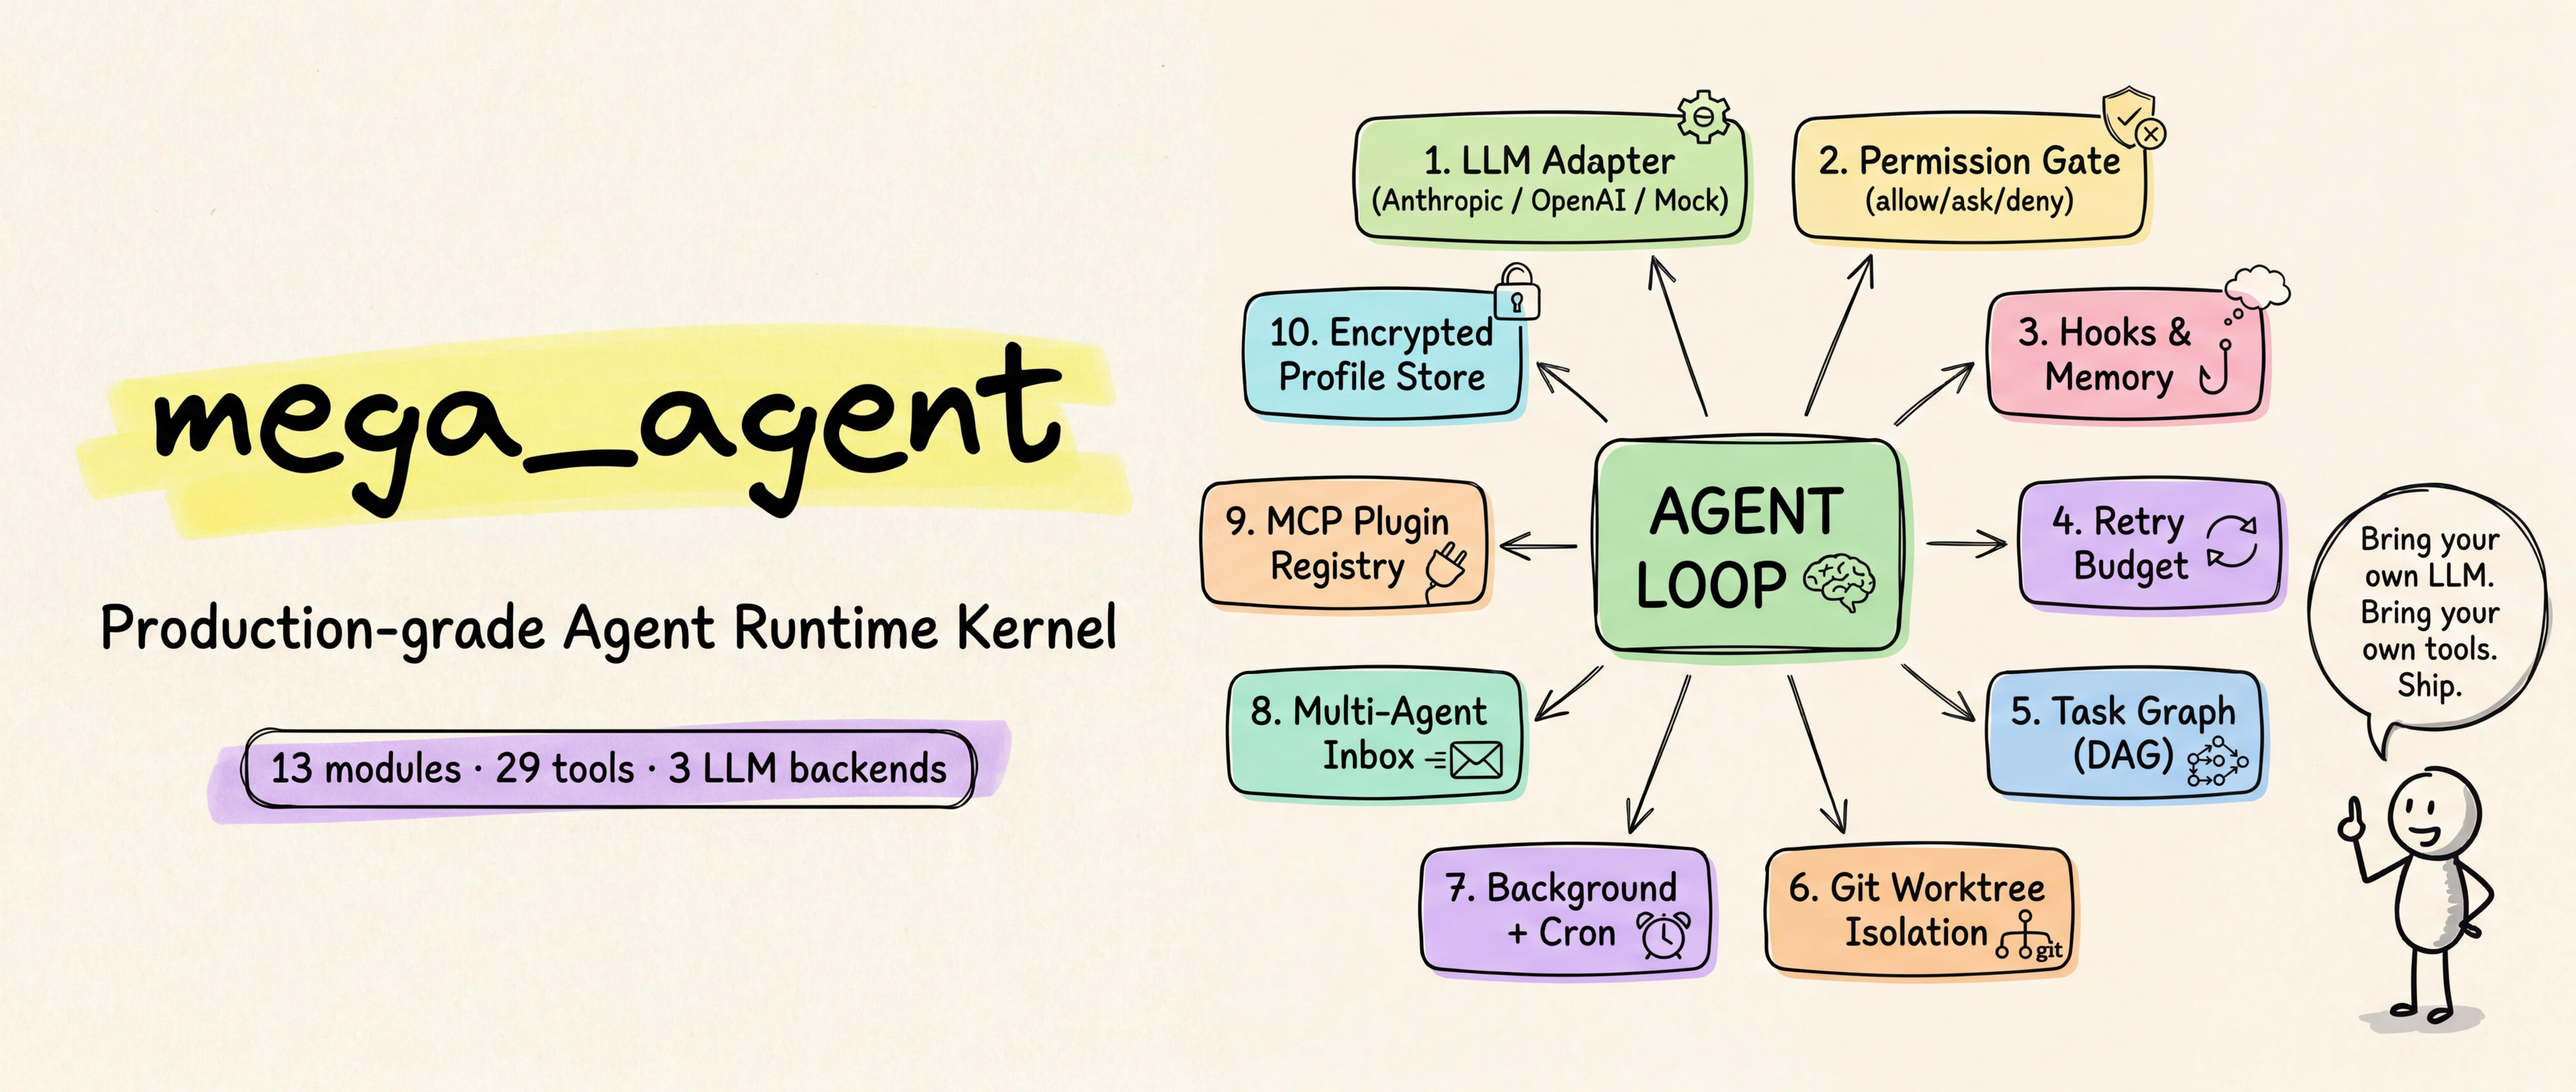
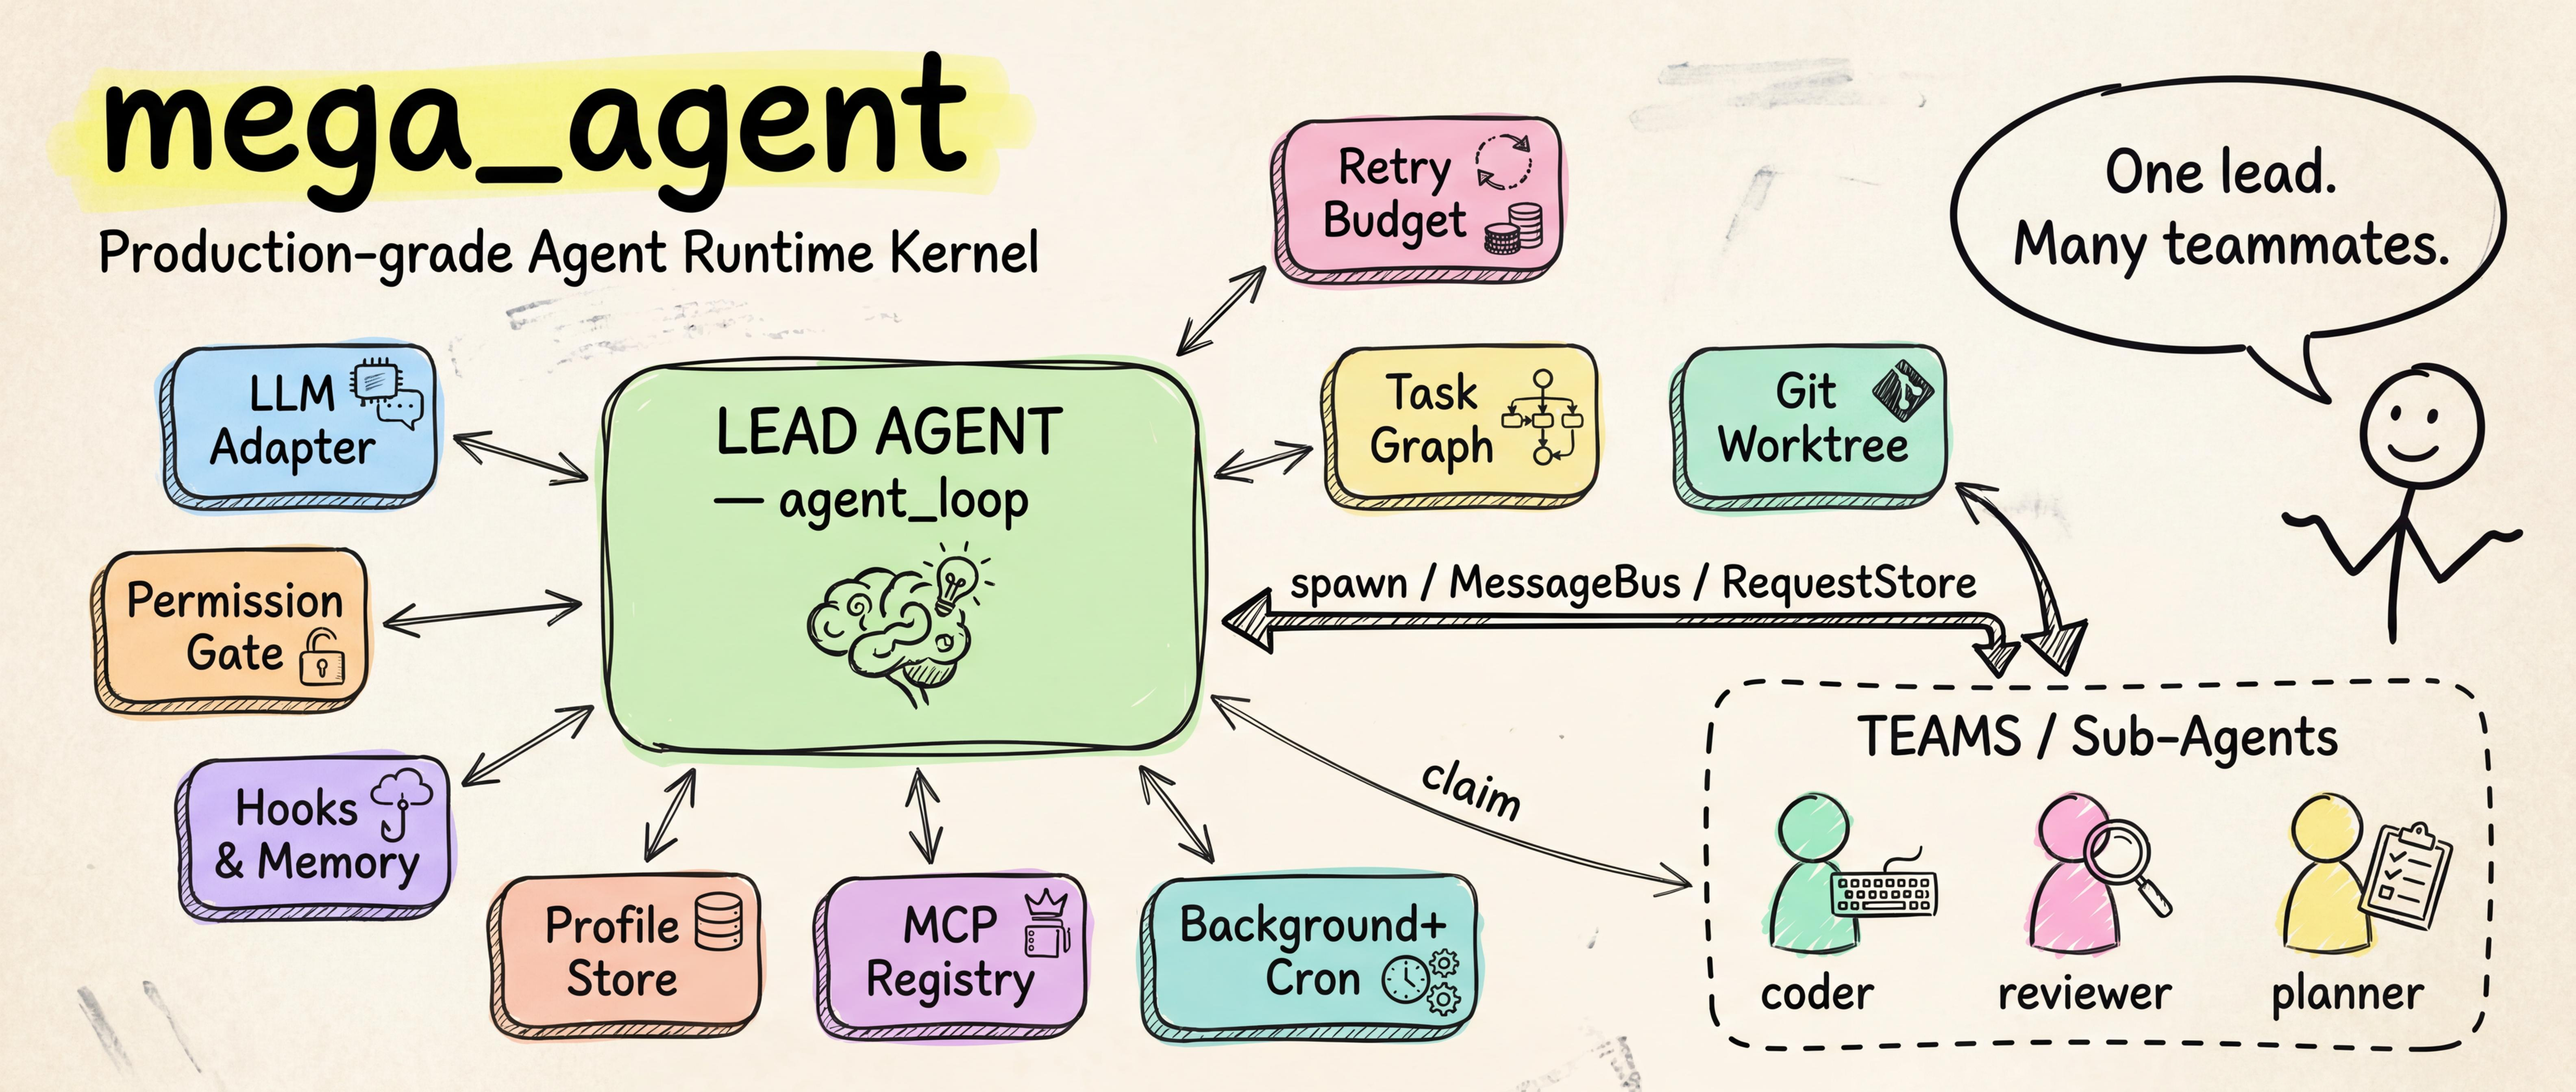
docs: surface Teams / Sub-Agents in architecture
- Regenerate hand-drawn poster with explicit TEAMS/Sub-Agents cluster
  (coder/reviewer/planner) and labeled spawn/MessageBus/RequestStore
  links to the lead agent
- Mermaid flowchart: split L6 Teams into its own subgraph showing
  TeammateManager, MessageBus, RequestStore and three sample
  sub-agents with bidirectional message/protocol/claim arrows;
  add inbox -> drain injection back into the loop
- New 'Multi-agent / 子 Agent 协作' section covering tools,
  message types, typical pattern, and RequestStore protocol

diff --git a/README.md b/README.md
@@ -67,9 +67,19 @@ flowchart TB
       T[L4 Task Graph]
       W[L4 Worktree]
       B[L5 Background + Cron]
-      TM[L6 Teams + Inbox]
       MC[L7 MCP Registry]
       PR[L7 Profile Store<br/>Fernet/PBKDF2]
+    end
+
+    subgraph Teams["L6 Teams / 子 Agent 协作层"]
+      TM[TeammateManager<br/>spawn / shutdown]
+      MB[MessageBus<br/>JSONL inbox]
+      RS[RequestStore<br/>approve / result]
+      subgraph Subs["Sub-Agents / 子 Agent"]
+        SA1[coder]
+        SA2[reviewer]
+        SA3[planner]
+      end
     end
 
     subgraph Tools["Native Tools 29x"]
@@ -79,7 +89,7 @@ flowchart TB
     subgraph External["External / 外部"]
       LLMSVC[(LLM provider)]
       MCPSVR[(MCP servers)]
-      FS[(Filesystem<br/>.tasks/ .worktrees/<br/>.team/ etc.)]
+      FS[(Filesystem<br/>.tasks/ .worktrees/<br/>.team/ .requests/ etc.)]
     end
 
     U -->|prompt| K
@@ -96,7 +106,12 @@ flowchart TB
     MC --> MCPSVR
     EX --> R
     TOOLS --> T & W & B & TM
-    T & W & B & TM --> FS
+    TM <-->|spawn / shutdown| Subs
+    Subs <-->|messages| MB
+    Subs <-->|protocol| RS
+    Subs -.->|autonomous claim| T
+    MB -->|inject inbox| DR
+    T & W & B & TM & MB & RS --> FS
     PR -.->|chooses backend| F
     EX -->|tool_result| K
 ```
@@ -356,6 +371,55 @@ you> worktree_closeout feat-a action=remove complete_task=true
 **EN —** Each worktree is a real `git worktree add`, on its own branch (`wt/<name>`). Multiple subagents can edit files in isolation; `worktree_closeout` either keeps or removes the branch and updates the bound task.
 
 **中文 —** 每个 worktree 都是真实的 `git worktree add`,独立分支(`wt/<name>`)。多个子 Agent 可以在文件层面互不干扰;`worktree_closeout` 可选保留或删除分支,并同步更新绑定任务。
+
+---
+
+## 👥 Multi-agent / 子 Agent 协作
+
+**EN —** Built-in lead-and-teammates pattern. The lead (your `agent_loop` caller) spawns sub-agents on background threads; each has its own role, JSONL inbox, and optional autonomous task-claiming behaviour.
+
+**中文 —** 内置主-从多 Agent 协作模式。主 Agent(你的 `agent_loop` 调用方)在后台线程拉起子 Agent;每个子 Agent 有自己的角色、JSONL 收件箱,可选自主任务认领能力。
+
+### Tools / 工具
+
+| Tool | EN | 中文 |
+|---|---|---|
+| `spawn` | Start a teammate by name + role (+ `autonomous` flag) | 按 name + role 启动一个子 Agent(可选 `autonomous`) |
+| `list_teammates` | List all teammates and their status | 列出所有子 Agent 及其状态 |
+| `send_message` | Send a typed message to a teammate's inbox | 投递一条带类型的消息到指定收件箱 |
+| `read_my_inbox` | Drain the caller's inbox (destructive read) | 拉取并清空自己的收件箱 |
+| `shutdown_teammate` | Stop a teammate gracefully | 优雅关闭某个子 Agent |
+
+### Message types / 消息类型
+
+`chat` · `result` · `shutdown_request` · `shutdown_response` · `plan_approval` · `plan_approval_response`
+
+**EN —** Unknown types are rejected at the bus to prevent protocol drift. Inbox messages addressed to the lead are auto-injected into the next user turn as `<inbox>...</inbox>` tags — same single input surface as background results and retry-budget alerts.
+
+**中文 —** 未知类型在总线层直接拒收,防止协议漂移。投给主 Agent 的收件箱消息会以 `<inbox>...</inbox>` 标签自动注入下一轮用户消息 —— 与后台结果、重试预算告警共用同一个输入面。
+
+### Pattern / 典型用法
+
+```
+spawn name=coder    role=implement  autonomous=true
+spawn name=reviewer role=review     autonomous=true
+
+create_task title="implement search"           → t1
+create_task title="review t1" deps=[t1]        → t2
+
+# autonomous teammates claim matching tasks themselves
+# coder picks t1 → works in worktree wt/feat-search
+# reviewer waits for t1 done → claims t2
+
+send_message to=coder type=chat body={"hint":"use prefix tree"}
+read_my_inbox who=lead   # drain replies
+```
+
+### Cross-agent protocol / 跨 Agent 协议
+
+**EN —** `RequestStore` (`.requests/<rid>.json`) tracks open requests with state machine `open → approved/rejected → done`. Use it for plan approvals, async results, or any request that needs a durable handshake.
+
+**中文 —** `RequestStore`(`.requests/<rid>.json`)维护持久化请求账本,状态机 `open → approved/rejected → done`。适合方案审批、异步结果回执等需要可恢复握手的场景。
 
 ---
 
